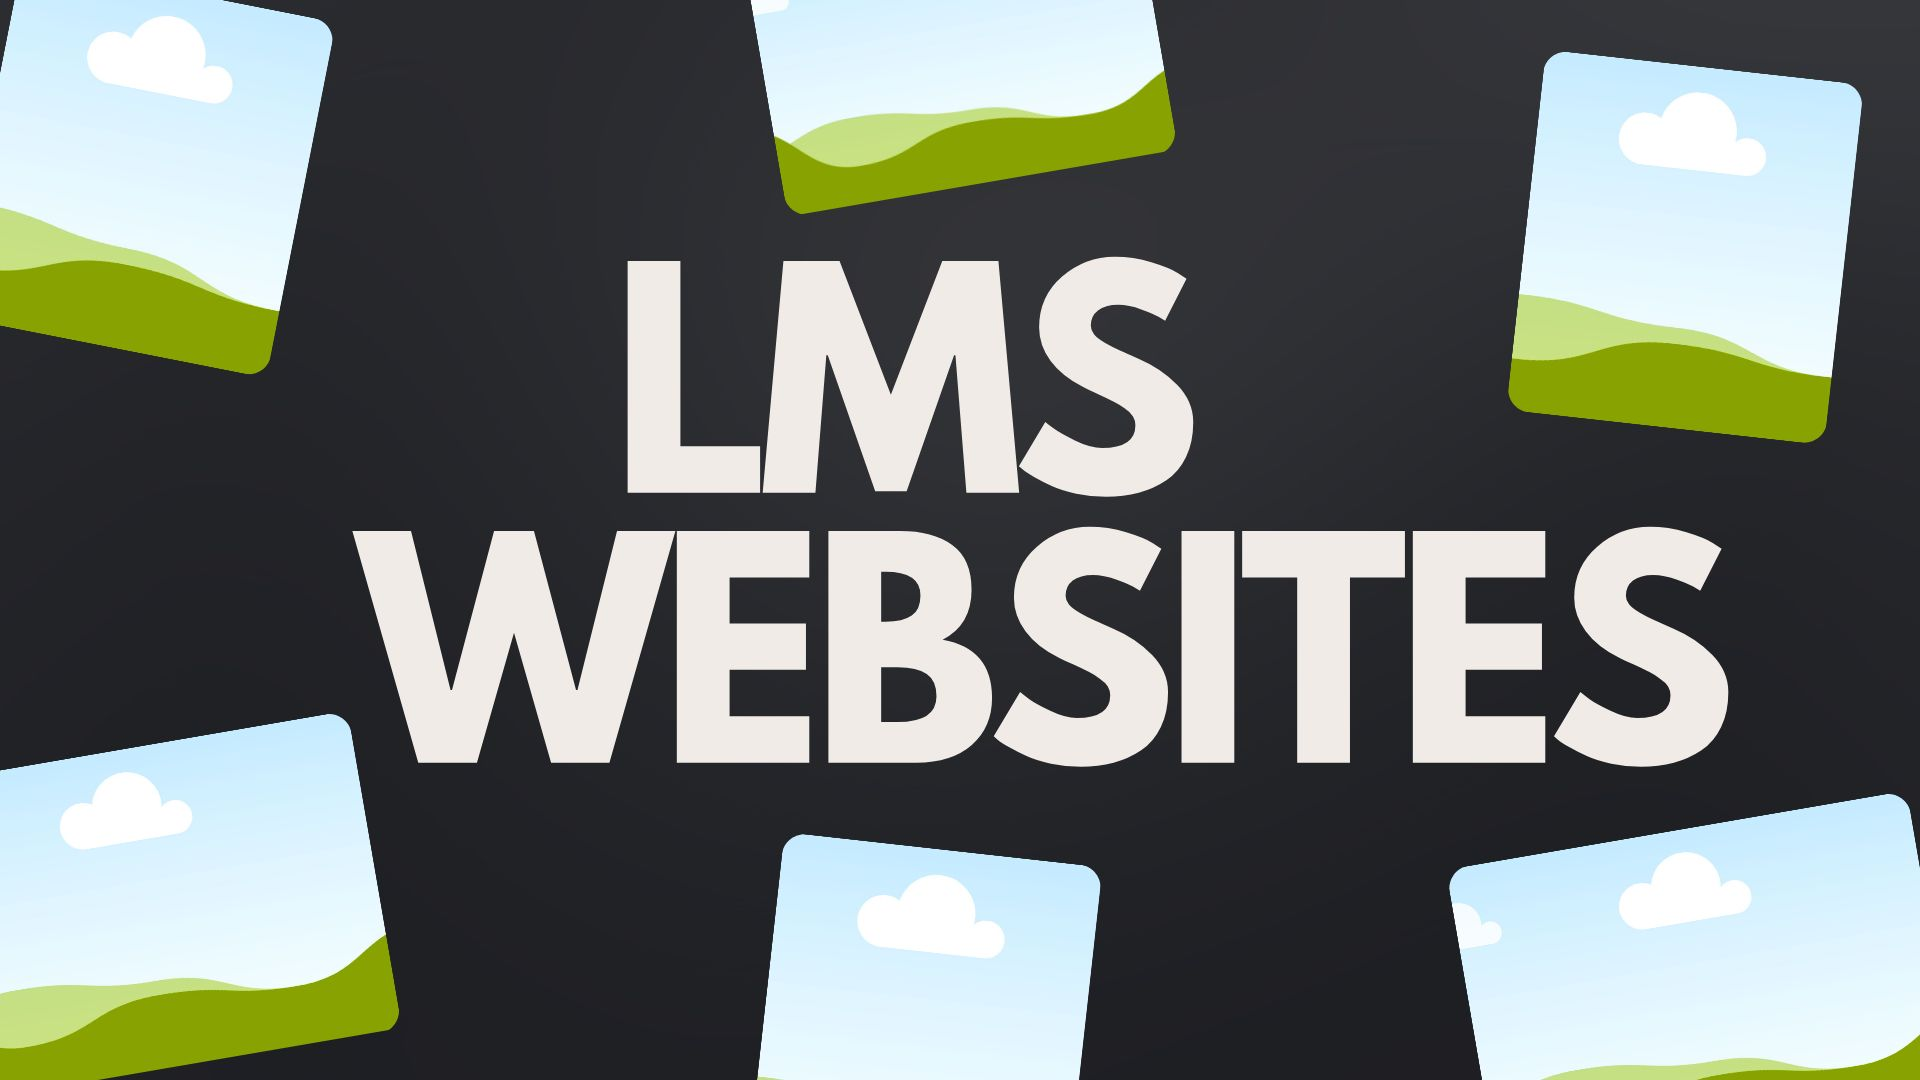
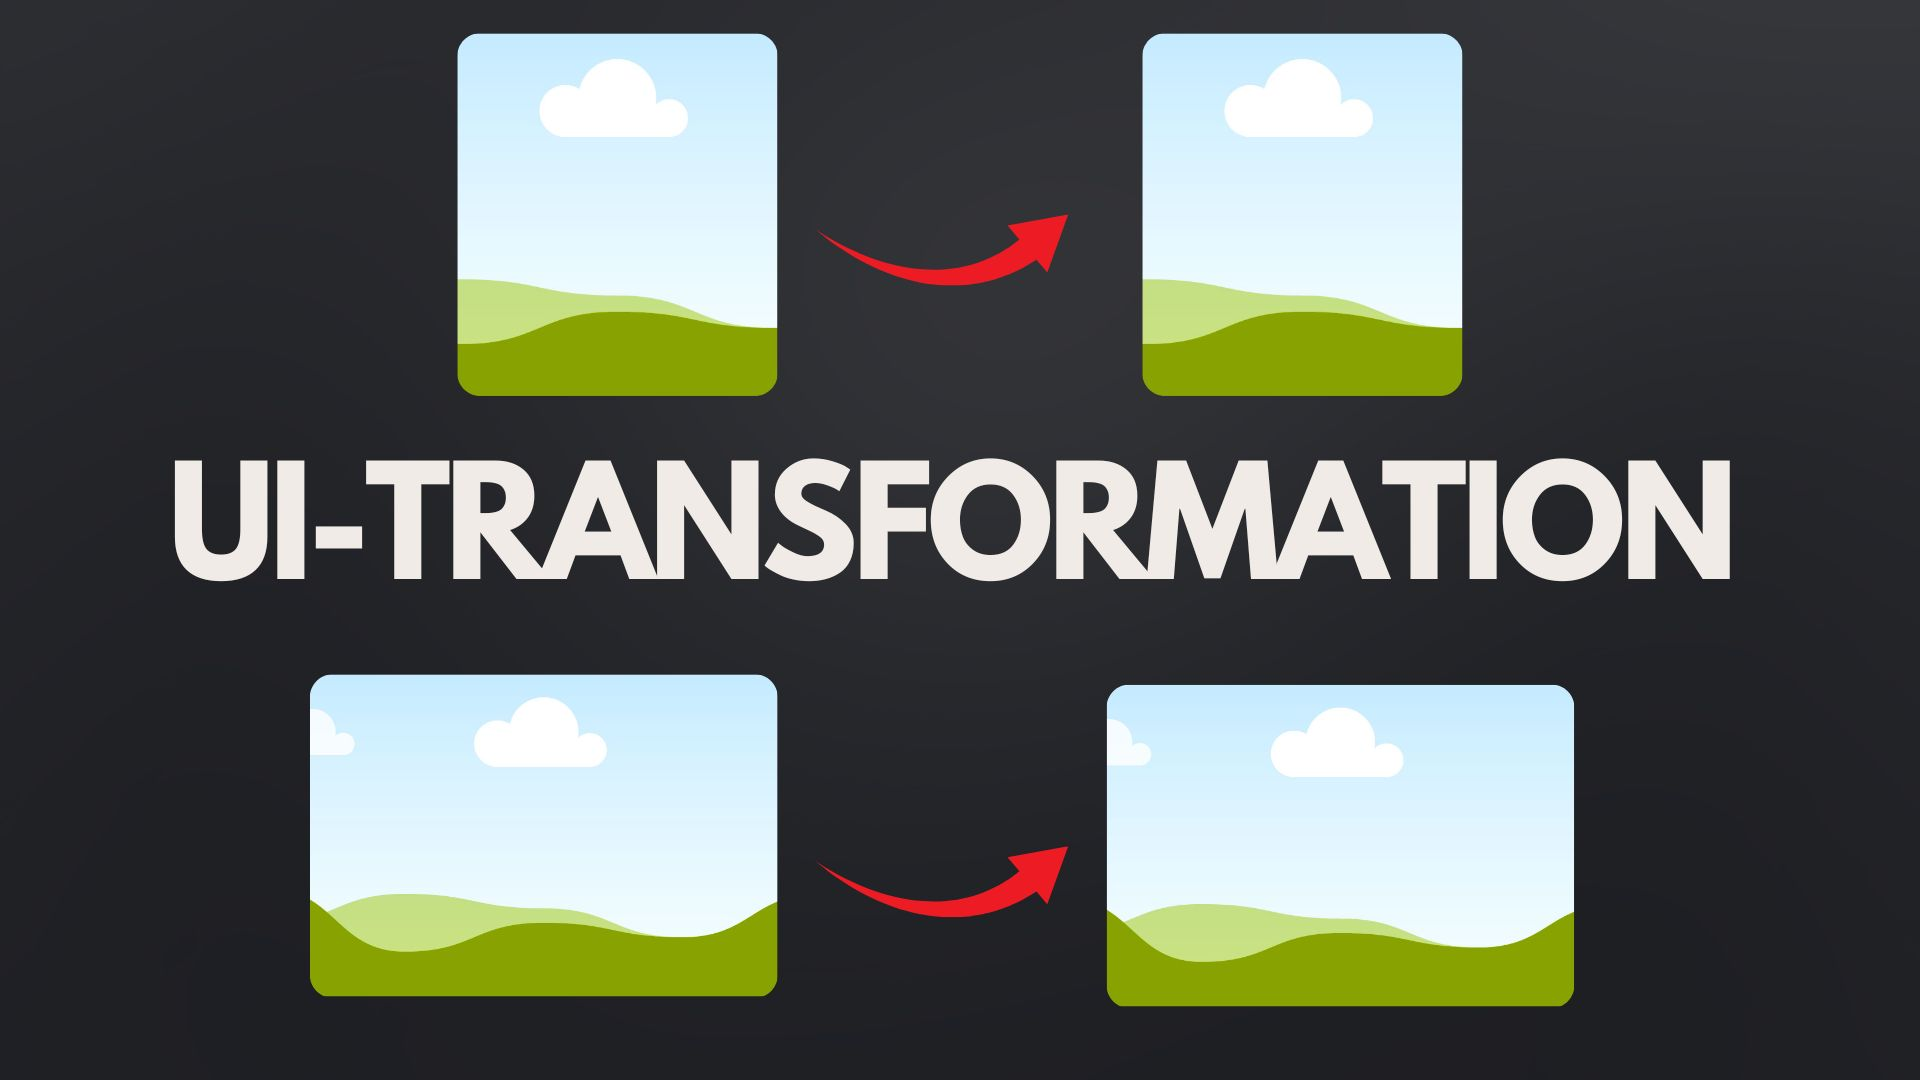
Changed LMS to UI Transformation

diff --git a/src/app/websites/page.tsx b/src/app/websites/page.tsx
@@ -3,7 +3,7 @@
 import { useState, useEffect, useRef } from "react"
 import PortfolioDetail from "../my_components/PortfolioDetail"
 import AgencyDetail from "../my_components/AgencyDetail"
-import LMSDetail from "../my_components/LMSDetail"
+import UITransformationDetail from "../my_components/LMSDetail"
 import Image from 'next/image'
 
 const options = [
@@ -18,9 +18,9 @@ const options = [
     component: ({ onPlanSelect }: { onPlanSelect: (plan: string) => void }) => <AgencyDetail onPlanSelect={onPlanSelect} />,
   },
   {
-    title: "LMS Website",
+    title: "UI Transformation",
     src: "hover_images/3.jpg",
-    component: ({ onPlanSelect }: { onPlanSelect: (plan: string) => void }) => <LMSDetail onPlanSelect={onPlanSelect} />,
+    component: ({ onPlanSelect }: { onPlanSelect: (plan: string) => void }) => <UITransformationDetail onPlanSelect={onPlanSelect} />,
   },
 ]
 
@@ -57,20 +57,20 @@ export default function WebsitesPage() {
     window.open(`mailto:appifybrands@gmail.com?subject=${encodeURIComponent(subject)}&body=${body}`)
   }
 
-const handleTwitter = () => {
-  const text = encodeURIComponent(fullMessage);
-  window.open(
-    `https://twitter.com/appifybrands`,
-    "_blank"
-  );
-};
+  const handleTwitter = () => {
+    const text = encodeURIComponent(fullMessage);
+    window.open(
+      `https://twitter.com/appifybrands`,
+      "_blank"
+    );
+  };
 
 
-const handleInstagram = () => {
-  const text = encodeURIComponent(fullMessage);
-  const user = "appifybrands"; // Your Instagram handle (no @)
-  window.open(`https://ig.me/m/${user}?text=${text}`, "_blank");
-};
+  const handleInstagram = () => {
+    const text = encodeURIComponent(fullMessage);
+    const user = "appifybrands"; // Your Instagram handle (no @)
+    window.open(`https://ig.me/m/${user}?text=${text}`, "_blank");
+  };
 
   return (
     <section className="p-6 py-16 bg-background">
@@ -84,7 +84,7 @@ const handleInstagram = () => {
           <div
             key={index}
             onClick={() => setActiveIndex(index)}
-            className={`cursor-pointer border rounded-lg shadow-md p-4 w-72 transition-all duration-300 transform 
+            className={`cursor-pointer border rounded-lg shadow-md p-4 w-72 transition-all duration-300 transform
               ${activeIndex === index
                 ? "border-blue-600 ring-2 ring-blue-400 dark:border-blue-400 dark:ring-blue-500 scale-105"
                 : "border-gray-300 dark:border-gray-700 scale-100"
@@ -121,7 +121,7 @@ const handleInstagram = () => {
       {message && (
         <section className="mb-12 max-w-3xl mx-auto animate-slideUp">
           <h1 ref={messageTitleRef} className="text-3xl font-bold text-center mb-8 text-black dark:text-white">
-            Message Us Now!
+            Mail Us Now!
           </h1>
           <div ref={messageBoxRef} className="p-4 bg-blue-100 dark:bg-blue-900 border border-blue-300 dark:border-blue-700 rounded-lg text-black dark:text-white">
             <p className="mb-4">{message}</p>
@@ -137,22 +137,55 @@ const handleInstagram = () => {
                 onClick={handleGmail}
                 className="px-4 py-2 bg-red-600 text-white rounded hover:bg-red-700 transition-all duration-300 transform hover:scale-105"
               >
-                Send via Gmail
-              </button>
-              <button
-                onClick={handleTwitter}
-                className="px-4 py-2 bg-black text-white rounded hover:bg-gray-800 transition-all duration-300 transform hover:scale-105"
-              >
-                Share on X
-              </button>
-              <button
-                onClick={handleInstagram}
-                className="px-4 py-2 bg-gradient-to-r from-purple-500 to-pink-500 text-white rounded hover:from-purple-600 hover:to-pink-600 transition-all duration-300 transform hover:scale-105"
-              >
-                Share on Instagram
+                Send Mail
               </button>
             </div>
           </div>
+          <div className="mt-8 text-center">
+            {/* Heading Row */}
+            <h1
+              ref={messageTitleRef}
+              className="text-3xl font-bold mb-6 text-black dark:text-white"
+            >
+              Or Chat With Us On
+            </h1>
+
+            {/* Buttons Row */}
+            <div className="flex justify-center gap-4">
+              <button
+                onClick={handleTwitter}
+                className="flex items-center gap-2 px-4 py-2 bg-black text-white rounded hover:bg-gray-800 transition-all duration-300 transform hover:scale-105"
+              >
+                {/* Twitter / X icon */}
+                <svg
+                  xmlns="http://www.w3.org/2000/svg"
+                  viewBox="0 0 24 24"
+                  fill="currentColor"
+                  className="w-5 h-5"
+                >
+                  <path d="M18.244 2.25h3.308l-7.227 8.26L22.5 21.75h-6.563l-5.146-6.701-5.89 6.701H1.593l7.73-8.798L1.5 2.25h6.75l4.67 6.157L18.244 2.25z" />
+                </svg>
+                Chat on X
+              </button>
+
+              <button
+                onClick={handleInstagram}
+                className="flex items-center gap-2 px-4 py-2 bg-gradient-to-r from-purple-500 to-pink-500 text-white rounded hover:from-purple-600 hover:to-pink-600 transition-all duration-300 transform hover:scale-105"
+              >
+                {/* Instagram icon */}
+                <svg
+                  xmlns="http://www.w3.org/2000/svg"
+                  viewBox="0 0 24 24"
+                  fill="currentColor"
+                  className="w-5 h-5"
+                >
+                  <path d="M7.5 2h9A5.5 5.5 0 0122 7.5v9A5.5 5.5 0 0116.5 22h-9A5.5 5.5 0 012 16.5v-9A5.5 5.5 0 017.5 2zm9 1.5h-9A4 4 0 003.5 7.5v9A4 4 0 007.5 20.5h9a4 4 0 004-4v-9a4 4 0 00-4-4zm-4.5 4.25a5.25 5.25 0 110 10.5 5.25 5.25 0 010-10.5zm0 1.5a3.75 3.75 0 100 7.5 3.75 3.75 0 000-7.5zm5.25-.875a.875.875 0 11-1.75 0 .875.875 0 011.75 0z" />
+                </svg>
+                Chat on Instagram
+              </button>
+            </div>
+          </div>
+
         </section>
       )}
     </section>

diff --git a/src/app/my_components/LMSDetail.tsx b/src/app/my_components/LMSDetail.tsx
@@ -1,15 +1,15 @@
 import { Card, CardContent, CardHeader, CardTitle, CardFooter } from "@/components/ui/card";
 import WrapButton from "@/components/ui/wrap-button";
 
-const LMSDetail = ({ onPlanSelect }: { onPlanSelect: (plan: string) => void }) => {
+const UITransformationDetail = ({ onPlanSelect }: { onPlanSelect: (plan: string) => void }) => {
   return (
     <div className="mt-10 min-h-screen bg-background py-12 px-6 flex flex-col items-center">
       {/* Service Overview */}
       <div className="max-w-3xl text-center mb-12">
-        <h2 className="text-4xl font-bold mb-4">LMS Website Development</h2>
+        <h2 className="text-4xl font-bold mb-4">UI Transformation Services</h2>
         <p className="text-muted-foreground text-lg">
-          Build powerful LMS platforms for schools, colleges, and online educators. 
-          Our LMS websites are scalable, user-friendly, and packed with e-learning features.
+          Transform your user interfaces with modern design, improved usability, and responsive layouts.
+          Our UI transformation services focus on enhancing user experience and visual appeal.
         </p>
       </div>
 
@@ -21,11 +21,11 @@ const LMSDetail = ({ onPlanSelect }: { onPlanSelect: (plan: string) => void }) =
             <CardTitle className="text-2xl font-bold">Basic</CardTitle>
           </CardHeader>
           <CardContent>
-            <p className="text-muted-foreground mb-4">For small institutions or educators starting online.</p>
+            <p className="text-muted-foreground mb-4">For small projects or simple UI updates.</p>
             <ul className="text-sm space-y-2 mb-6">
-              <li>✔ Course Listing & Enrollment</li>
-              <li>✔ User Authentication</li>
-              <li>✔ Basic Dashboard</li>
+              <li>✔ Wireframing</li>
+              <li>✔ Basic UI Design</li>
+              <li>✔ Responsive Layout</li>
             </ul>
           </CardContent>
           <CardFooter  className="mt-auto">
@@ -39,12 +39,12 @@ const LMSDetail = ({ onPlanSelect }: { onPlanSelect: (plan: string) => void }) =
             <CardTitle className="text-2xl font-bold">Plus</CardTitle>
           </CardHeader>
           <CardContent>
-            <p className="text-muted-foreground mb-4">Great for institutions needing advanced LMS features.</p>
+            <p className="text-muted-foreground mb-4">For medium projects needing interactive elements.</p>
             <ul className="text-sm space-y-2 mb-6">
-              <li>✔ Course Management System</li>
-              <li>✔ Quiz & Assessment Modules</li>
-              <li>✔ Progress Tracking</li>
-              <li>✔ Instructor Dashboard</li>
+              <li>✔ Prototyping</li>
+              <li>✔ Interactive Elements</li>
+              <li>✔ User Testing</li>
+              <li>✔ Advanced Layouts</li>
             </ul>
           </CardContent>
           <CardFooter  className="mt-auto">
@@ -58,13 +58,13 @@ const LMSDetail = ({ onPlanSelect }: { onPlanSelect: (plan: string) => void }) =
             <CardTitle className="text-2xl font-bold">Pro</CardTitle>
           </CardHeader>
           <CardContent>
-            <p className="text-muted-foreground mb-4">For universities or large-scale e-learning platforms.</p>
+            <p className="text-muted-foreground mb-4">For large-scale UI overhauls and complex designs.</p>
             <ul className="text-sm space-y-2 mb-6">
-              <li>✔ Fully Custom LMS</li>
-              <li>✔ Video Lectures & Live Classes</li>
-              <li>✔ Payment Gateway Integration</li>
-              <li>✔ Gamification & Certificates</li>
-              <li>✔ Scalability for Thousands of Users</li>
+              <li>✔ Full Redesign</li>
+              <li>✔ Advanced Animations</li>
+              <li>✔ Accessibility Compliance</li>
+              <li>✔ Multi-Device Optimization</li>
+              <li>✔ Performance Optimization</li>
             </ul>
           </CardContent>
           <CardFooter >
@@ -76,4 +76,4 @@ const LMSDetail = ({ onPlanSelect }: { onPlanSelect: (plan: string) => void }) =
   );
 };
 
-export default LMSDetail;
+export default UITransformationDetail;

diff --git a/src/app/services/page.tsx b/src/app/services/page.tsx
@@ -26,9 +26,9 @@ export default function ServicesPage() {
       src: "hover_images/2.jpg",
     },
     {
-      title: "LMS Websites",
+      title: "UI Transformation",
       description:
-        "Launch your online course platform with features like student dashboards, quizzes, and payments.",
+        "Revamp your existing website with a modern, responsive, and user-friendly design.",
       src: "hover_images/3.jpg",
     },
   ]
@@ -51,11 +51,11 @@ export default function ServicesPage() {
       ],
     },
     {
-      category: "LMS Websites",
+      category: "UI Transformation",
       plans: [
-        { name: "Normal", price: "$229.99" },
-        { name: "Animated", price: "$299.99" },
-        { name: "Dark + Light Mode", price: "$399.99" },
+        { name: "Normal", price: "$29.99 / section" },
+        { name: "Animated", price: "$39.99 / section" },
+        { name: "Dark + Light Mode", price: "$49.99  / section" },
       ],
     },
   ]
@@ -102,10 +102,10 @@ export default function ServicesPage() {
                 variants={fadeInUp}
               >
                 <MinimalCard className="m-4 w-full max-w-md bg-gray-50 dark:bg-gray-800 shadow-sm rounded-lg overflow-hidden transform transition duration-300 hover:scale-105 hover:shadow-xl">
-                <MinimalCardImage
-                  src={card.src}
-                  alt={card.title}
-                />
+                  <MinimalCardImage
+                    src={card.src}
+                    alt={card.title}
+                  />
                   <MinimalCardTitle className="text-gray-900 dark:text-white">
                     {card.title}
                   </MinimalCardTitle>
@@ -135,9 +135,9 @@ export default function ServicesPage() {
             <thead className="bg-gray-100 dark:bg-gray-700">
               <tr>
                 <th className="p-4 text-left text-gray-900 dark:text-gray-100">Service</th>
-                <th className="p-4 text-center text-gray-900 dark:text-gray-100">Normal</th>
-                <th className="p-4 text-center text-gray-900 dark:text-gray-100">Animated</th>
-                <th className="p-4 text-center text-gray-900 dark:text-gray-100">Dark + Light Mode</th>
+          <th className="p-4 text-center text-gray-900 dark:text-gray-100">Normal</th>
+          <th className="p-4 text-center text-gray-900 dark:text-gray-100">Animated</th>
+          <th className="p-4 text-center text-gray-900 dark:text-gray-100">Dark + Light Mode</th>
               </tr>
             </thead>
             <tbody className="bg-white dark:bg-gray-800">

diff --git a/src/app/my_components/HoverExpandComponent.tsx b/src/app/my_components/HoverExpandComponent.tsx
@@ -7,11 +7,11 @@ const HoverExpandComponent = () => {
   return (
     <div className="text-center">
       <h1
-        className="text-3xl sm:text-4xl md:text-5xl font-extrabold mb-4 mt-9
+        className="text-3xl sm:text-4xl md:text-5xl font-extrabold mb-6 mt-9
   bg-gradient-to-r from-green-400 via-green-500 to-emerald-600
   bg-clip-text text-transparent animate-gradient"
       >
-        We Build
+        Services We Offer...
       </h1>
 
       <HoverExpand

diff --git a/src/app/my_components/ServicesSection.tsx b/src/app/my_components/ServicesSection.tsx
@@ -21,7 +21,7 @@ export default function ServicesSection() {
   bg-gradient-to-r from-green-400 via-green-500 to-emerald-600
   bg-clip-text text-transparent animate-gradient"
           >
-            We Build
+            Services We Offer...
           </h1>
 
           <div className="grid grid-cols-1 gap-4 w-full max-w-sm mx-auto">

diff --git a/TODO.md b/TODO.md
@@ -1,11 +1,7 @@
-# TODO: Make Services Page Table and Why Choose Us Responsive
+# TODO: Change LMS to UI Transformation
 
-- [x] Update src/app/services/page.tsx: Make pricing table scale responsive (scale-[1] on mobile, scale-[1.1] on md, scale-[1.2] on lg)
-- [x] Update "Why Choose Us" scale to be responsive (scale-[0.8] on mobile, scale-[0.9] on md, scale-[1] on lg)
-- [x] Make "Why Choose Us" heading responsive (text-3xl sm:text-4xl md:text-5xl)
-- [x] Adjust SkiperCard min-height to be responsive in src/components/ui/skiper-card.tsx (min-h-[300px] sm:min-h-[400px] md:min-h-[500px] lg:min-h-[700px])
-- [x] Fix image cutting in services cards by changing object-cover to object-scale-down in src/components/ui/minimal-card.tsx
-- [x] Implement simple image loading for mobile devices in ServicesSection.tsx instead of hover expand component
-- [x] Fix image URL paths to be valid for Next.js Image component
-- [x] Fix all linting warnings (img tags, unused variables, missing dependencies)
-- [ ] Test the changes on mobile to ensure proper scaling and no overflow
+## Tasks
+- [x] Update src/app/my_components/LMSDetail.tsx: Change component name to UITransformationDetail, update title, description, add prices and features to plans.
+- [x] Update src/app/websites/page.tsx: Change title to "UI Transformation", update component import and reference to UITransformationDetail.
+- [x] Update src/app/services/page.tsx: Change card title to "UI Transformation", update description, update pricing plans with suitable prices.
+- [ ] Test the changes by running the app and checking the pages.
